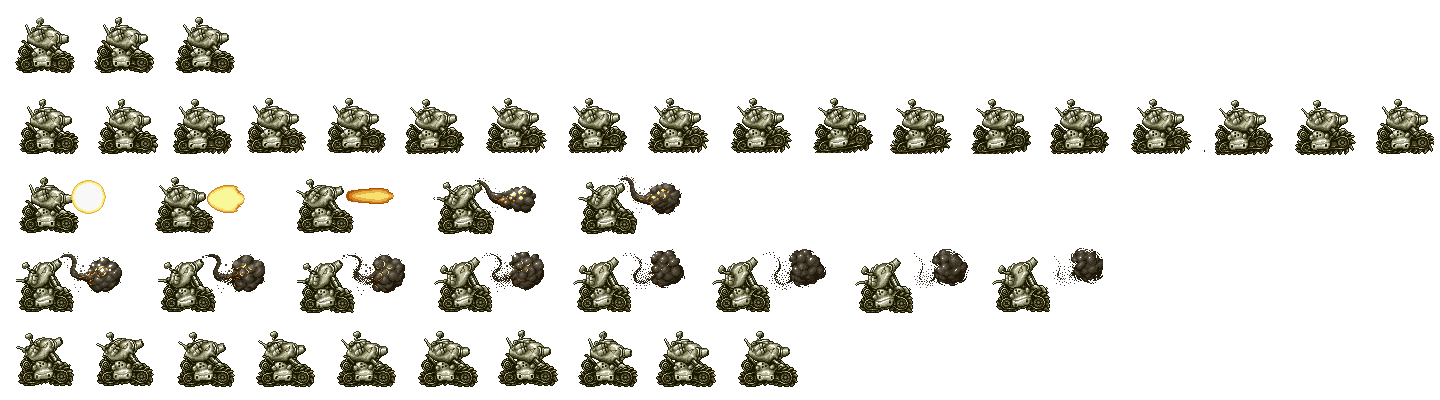
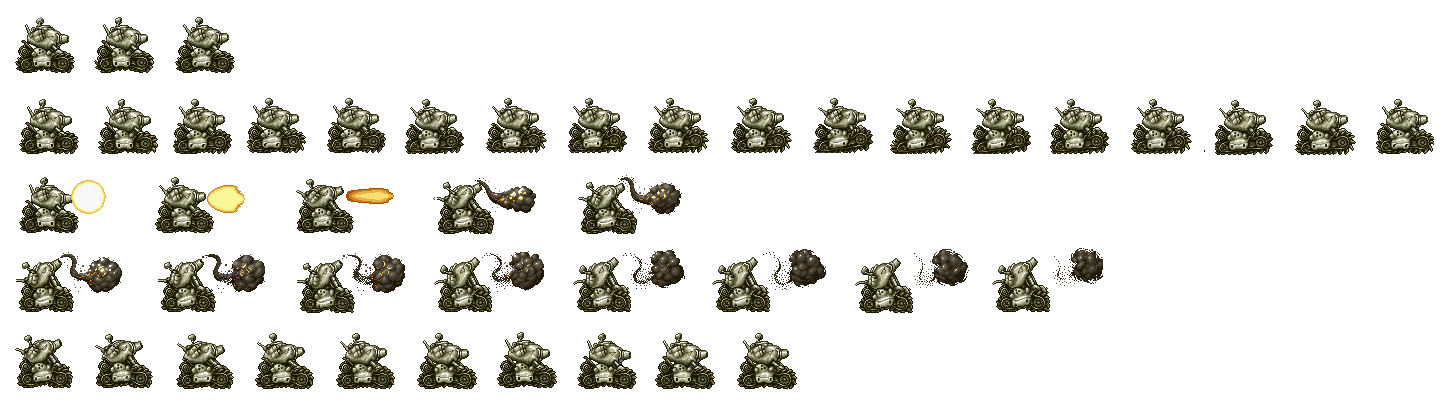
Project 캐릭터 공격모션 완성
스프라이트 시트... 시발....
개노다가 죽고싶다...
공격모션 완전하고 부드럽게 만들기 위해서 이미지 크기 커지는 것 감수하고
이미지 너비 3080까지 키워서 꾸겨넣음

Changed region(s): [[0.0, 0.84, 0.5625, 0.99]]

diff --git a/Project/Slug Defense/project.py b/Project/Slug Defense/project.py
@@ -15,10 +15,10 @@ class Player:
     def __init__(self):
         self.x, self.y = 0, 70
         self.frame = 0
-        self.image = load_image('TEST.png')
+        self.image = load_image('finaltest.png')
         self.dir = 0
         self.cannon = 0
-        self.cannonframe = 0
+        self.frame1 =0
 
     def moving(self):
         if self.dir == 1 or self.dir == -1:
@@ -28,20 +28,18 @@ class Player:
             self.frame = (self.frame + 1) % 3
             self.x = self.x - 0
         elif self.cannon == 1:
-            self.cannonframe = (self.cannonframe + 1) % 21
+            self.frame1 = (self.frame1 + 1) % 23
 
     def draw(self):
         if self.dir == 0:
-            self.image.clip_draw(self.frame * 80, 320, 80-3, 80, self.x, self.y)
+            self.image.clip_draw(self.frame * 80, 160, 80-3, 80, self.x, self.y)
         elif self.dir == 1 or self.dir == -1:
-            self.image.clip_draw(self.frame * 80, 240, 80-3, 80, self.x, self.y)
+            self.image.clip_draw(self.frame * 80, 80, 80-3, 80, self.x, self.y)
+
         if self.cannon == 1:
-            if self.cannonframe <= 5:
-                self.image.clip_draw(self.cannonframe * 140, 160, 140, 80, self.x+25, self.y)
-            elif 5 < self.cannonframe <= 13:
-                self.image.clip_draw(self.cannonframe * 140, 80, 140, 80, self.x+25, self.y)
-            elif self.cannonframe > 13:
-                self.image.clip_draw(self.cannonframe * 80, 0, 80, 80, self.x, self.y)
+                self.image.clip_draw(self.frame1 * 140, 0, 140, 80, self.x+25, self.y)
+
+
 
 
 def handle_events():
@@ -88,7 +86,7 @@ while running:
     slug.draw()
     update_canvas()
 
-    delay(0.04)
+    delay(0.02)
 
 
 # finalization code
